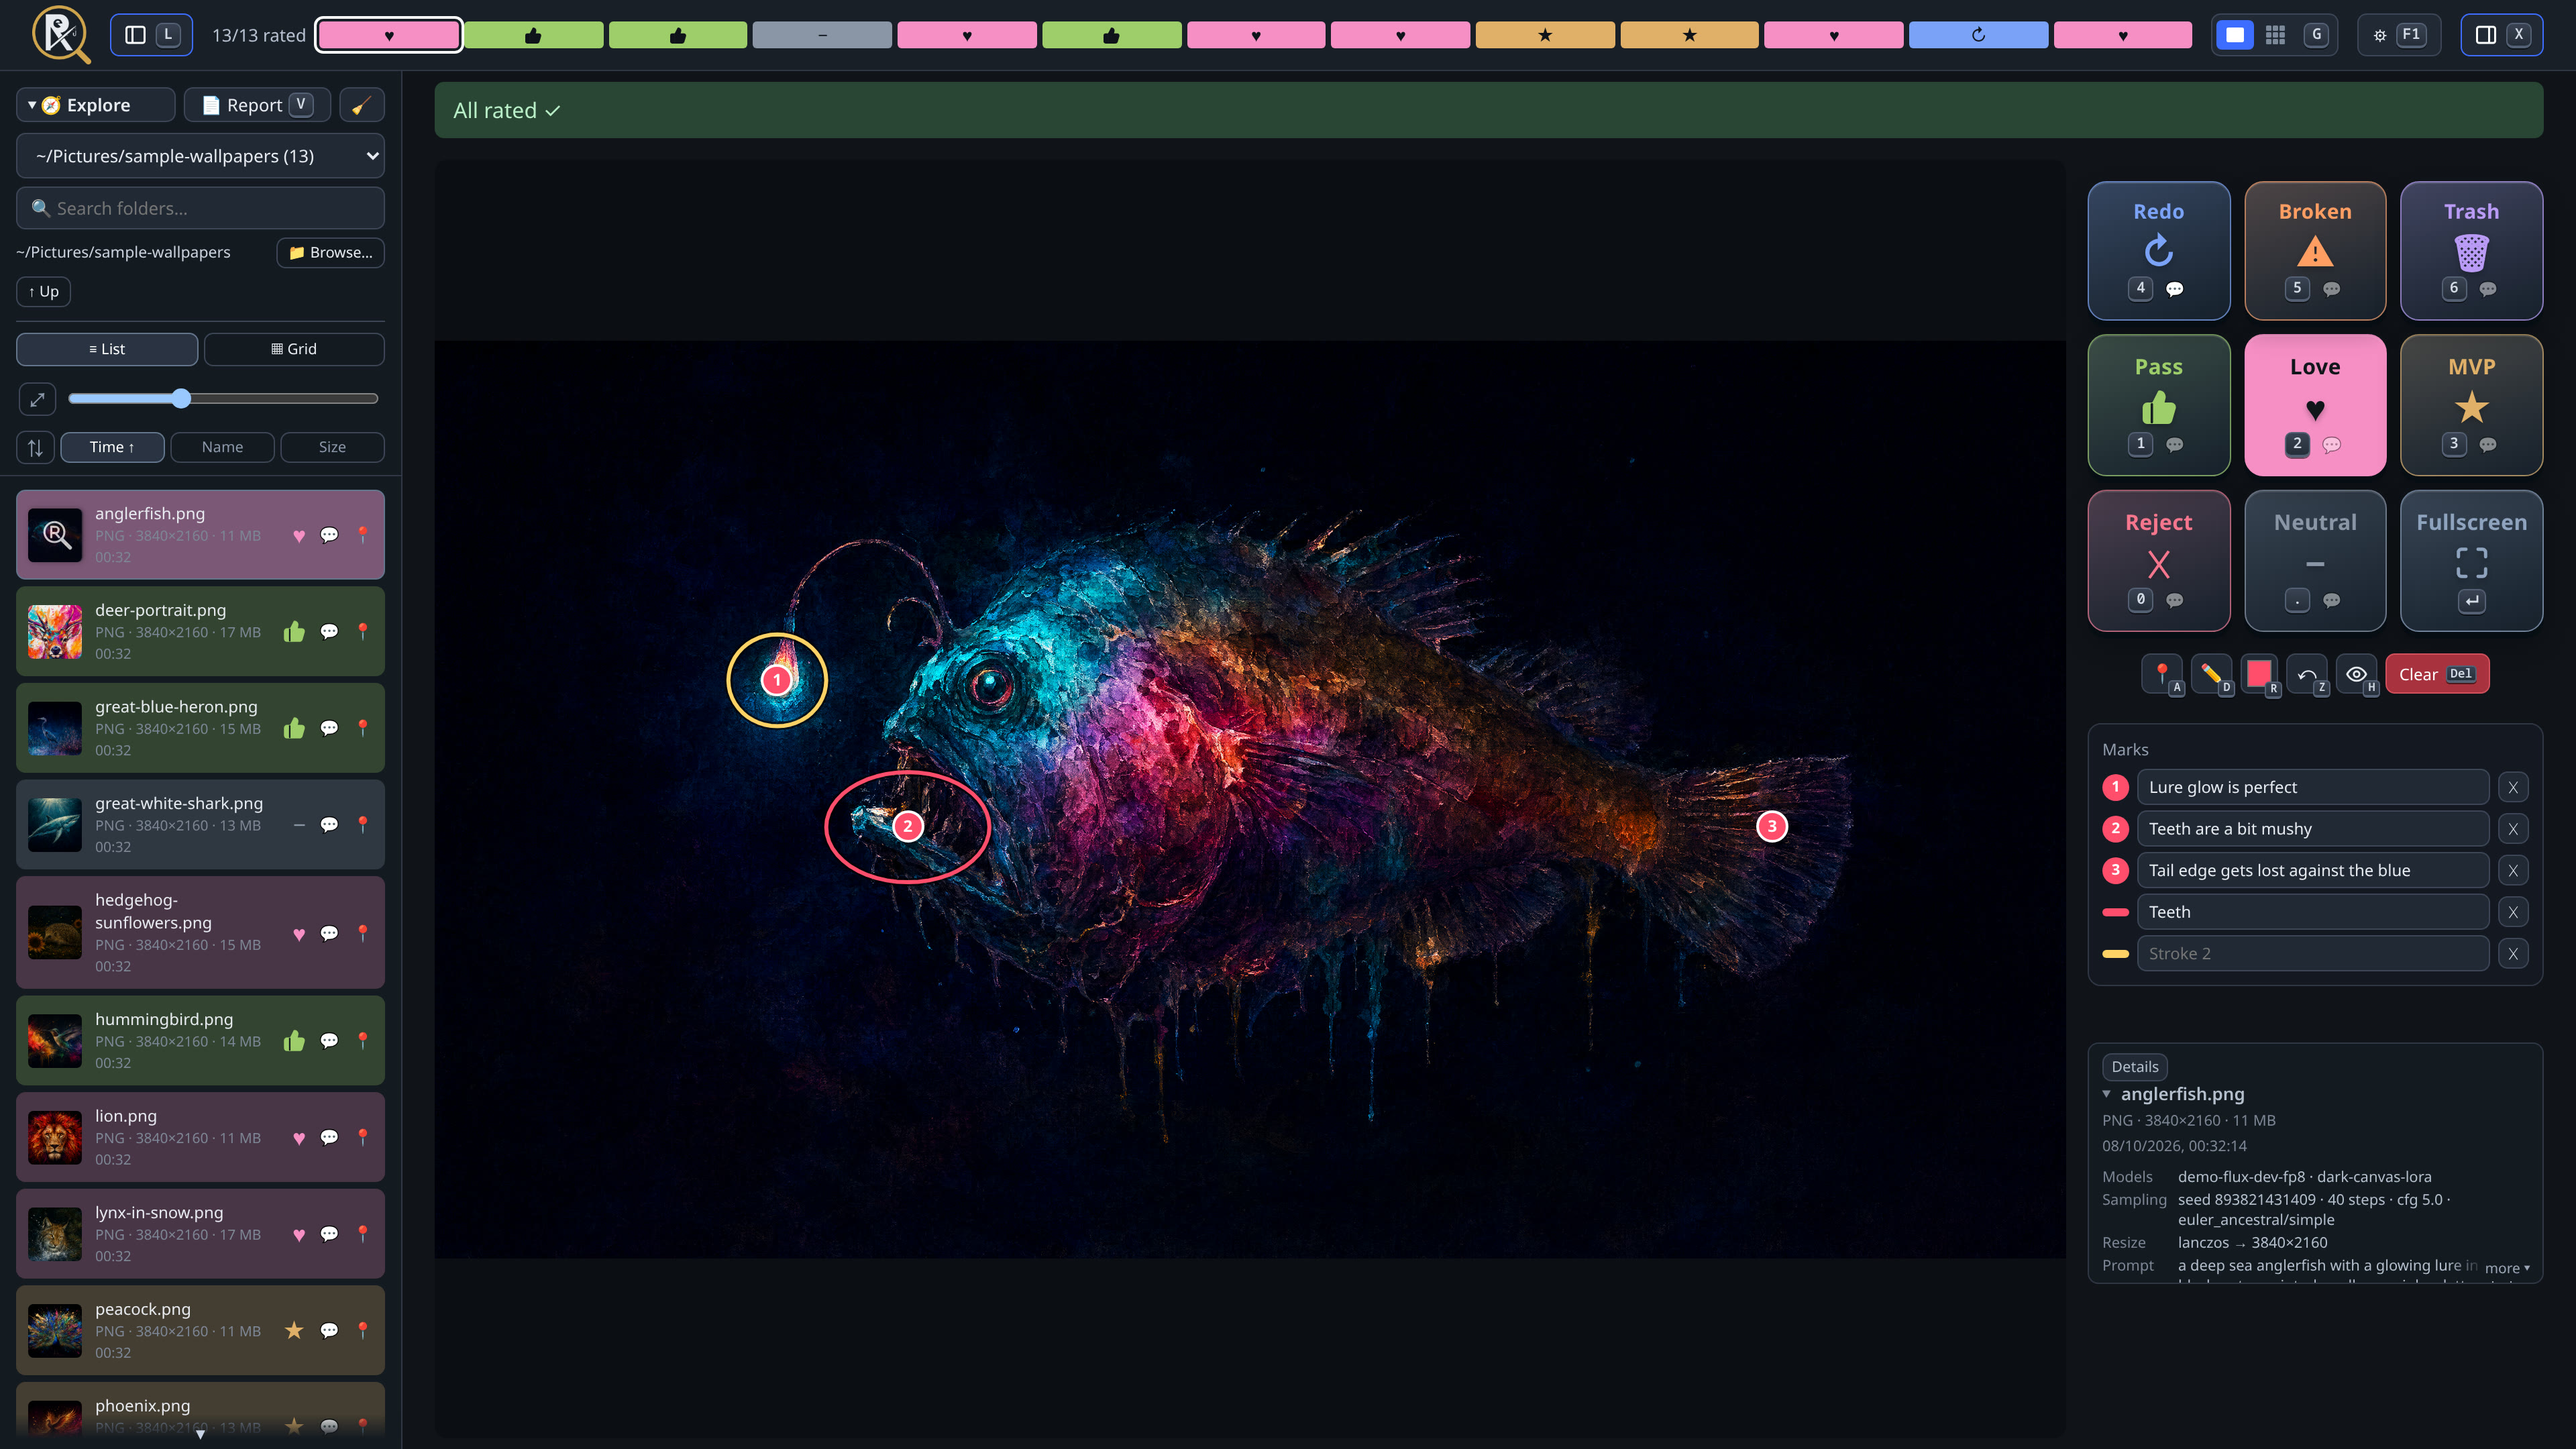
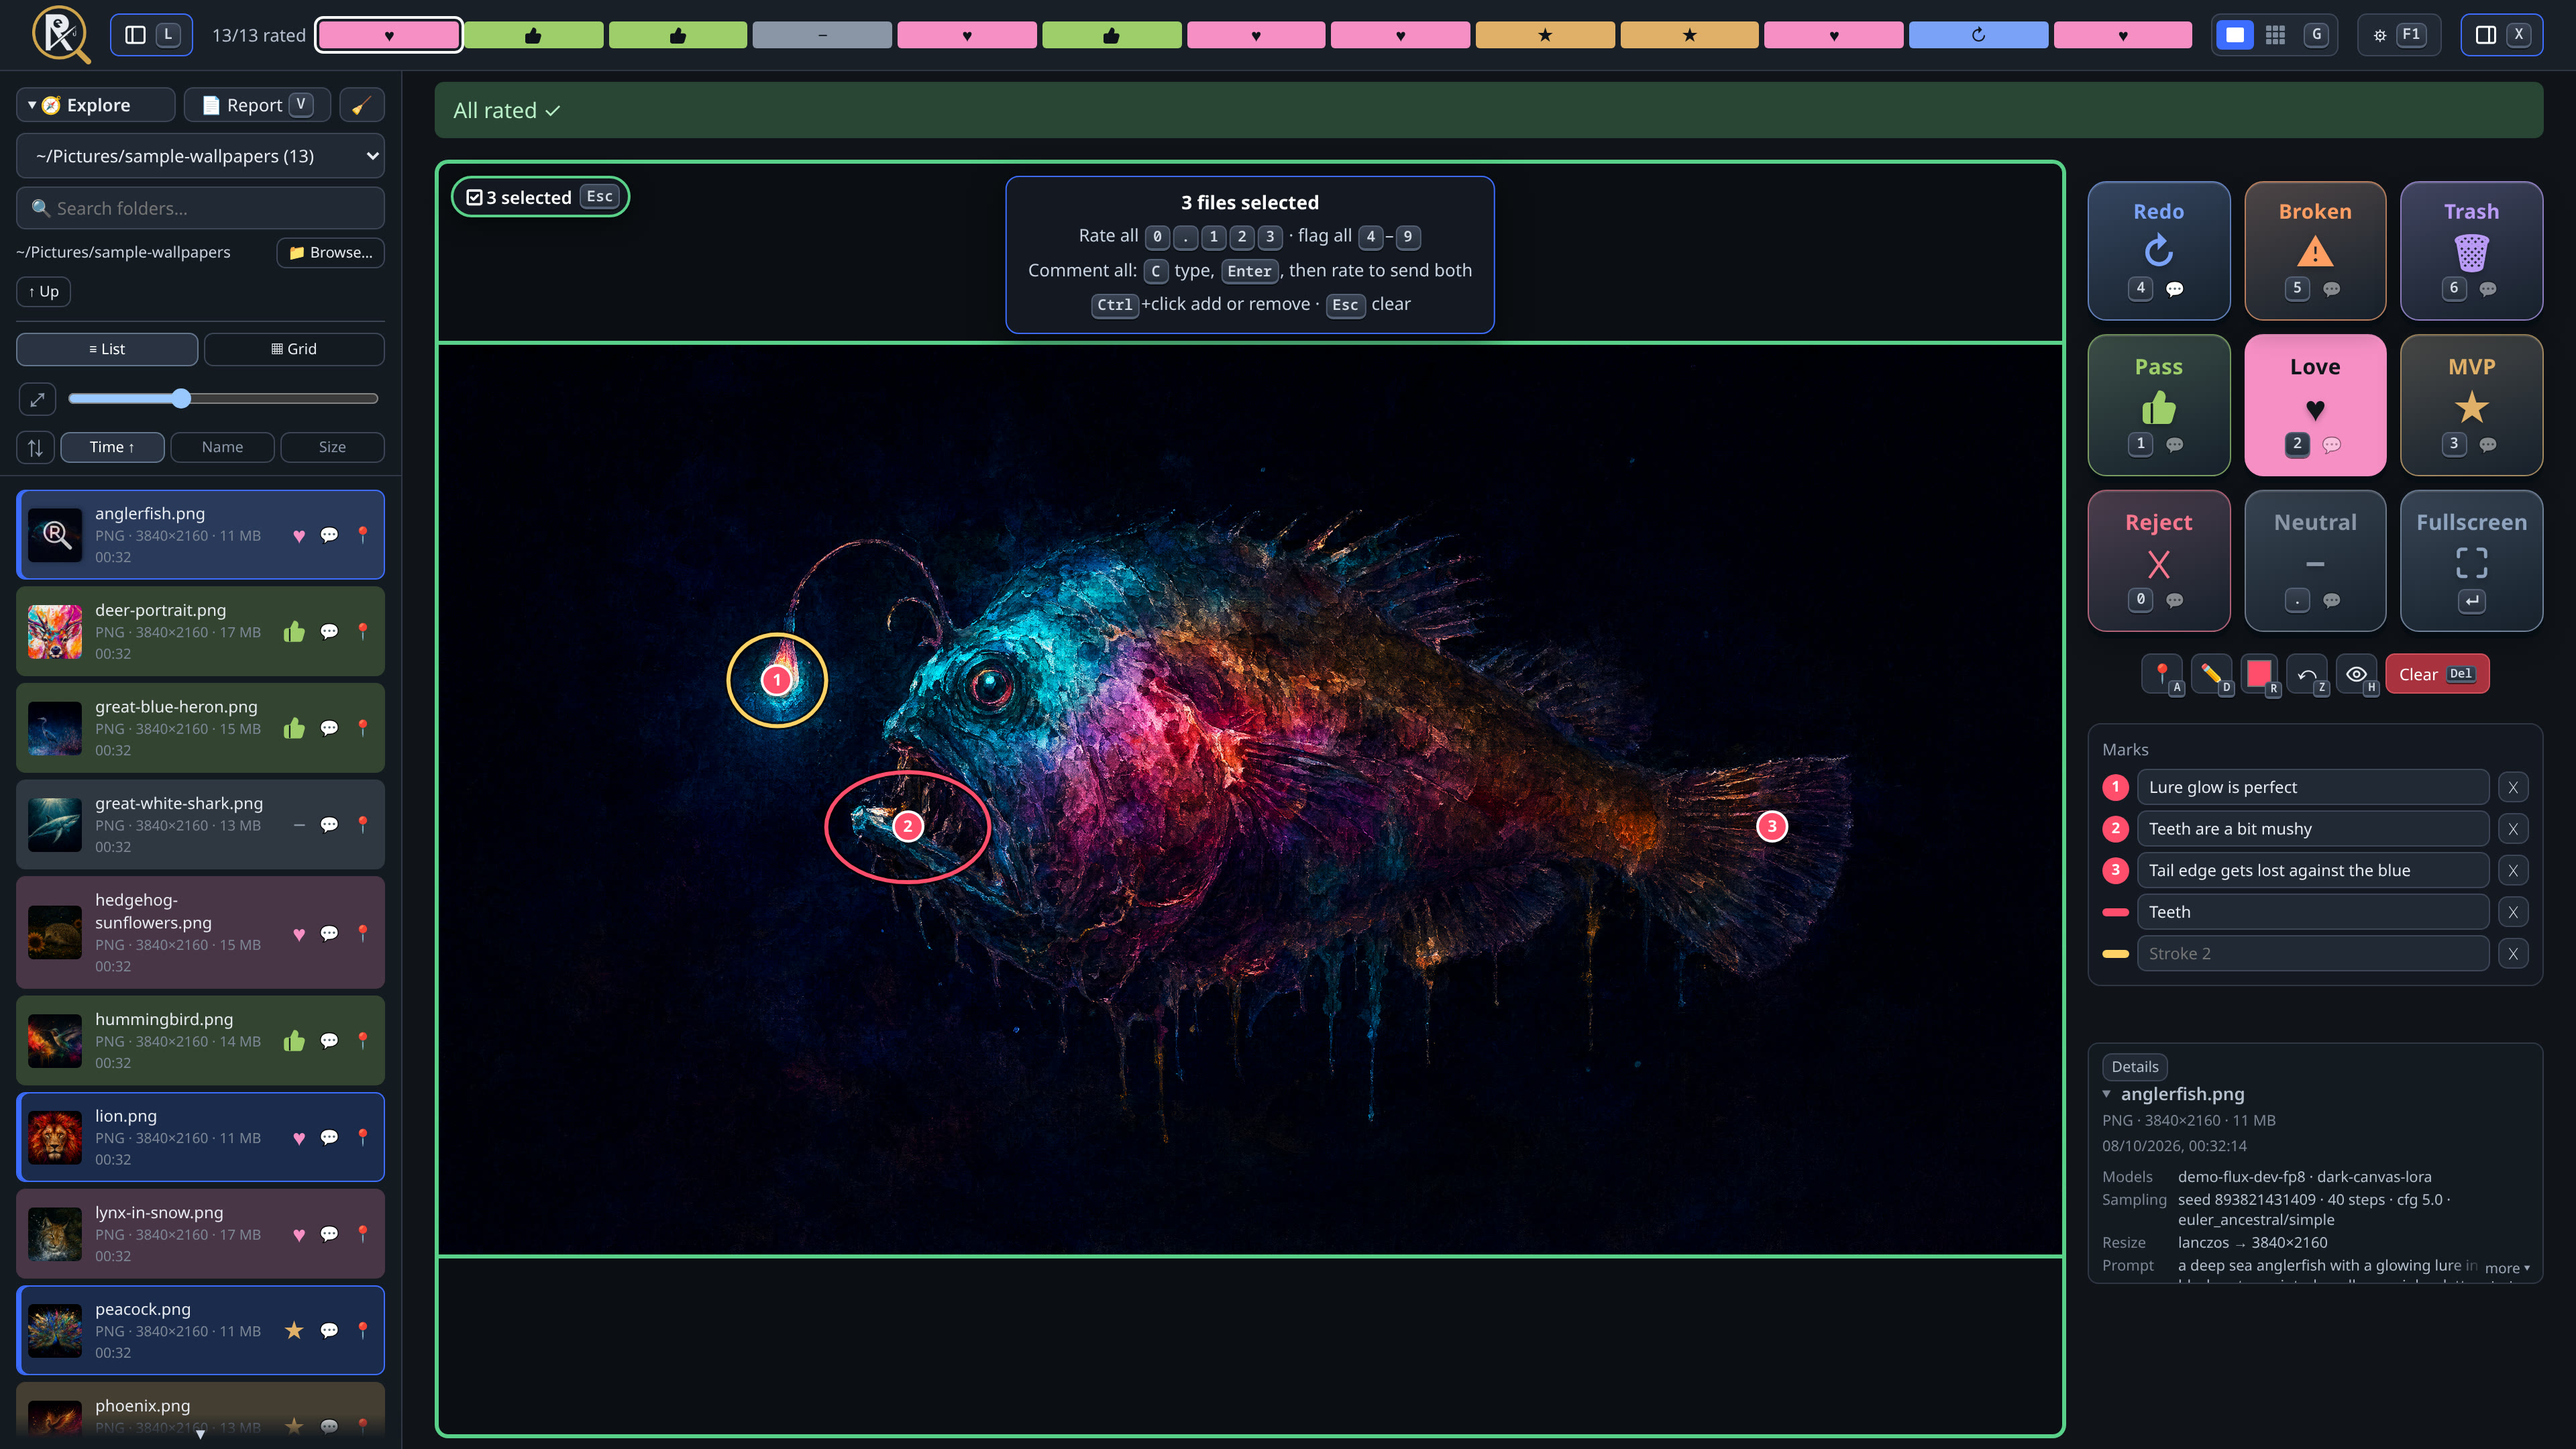
Screenshots show the pie menu and multi-select; README intro and AGENTS.md catch up

diff --git a/AGENTS.md b/AGENTS.md
@@ -14,7 +14,7 @@ RateBait is a local web app in which a person rates AI-generated images and musi
    ```
 
    Without `--root` it uses `MEDIA_RATER_ROOTS` (colon-separated), else the current directory. It listens on `127.0.0.1` only; `--host` accepts IPv4 loopback addresses only.
-3. Tell the person to open `http://127.0.0.1:8765/`, pick a folder and rate. The ⚙ menu (**F1**) lists every key.
+3. Tell the person to open `http://127.0.0.1:8765/`, pick a folder and rate (numpad keys, or hold **`** for a pie menu at the pointer). **V** shows the folder's `REVIEW.md`; the ⚙ menu (**F1**) lists every key.
 4. Optional, to keep it running: a systemd user service.
 
    ```ini
@@ -105,7 +105,7 @@ curl -s http://127.0.0.1:8765/api/review -H 'Content-Type: application/json' -d 
 - Keep it dependency-free: standard-library Python, plain HTML/CSS and one plain `app.js`, no build step.
 - Keep the AGPL-3.0-or-later header in each source file.
 - Restart `ratebait.py` after changing it; frontend changes only need a browser reload.
-- Update `README.md` when keys or behaviour change. The ⚙ Keyboard map (`keyBinds` and `kbCombos` in `app.js`) is the in-app reference.
+- Update `README.md` when keys or behaviour change; the demo GIFs and screenshots in `docs/` show the UI, so re-record them when it changes visibly. The ⚙ Keyboard map (`keyBinds` and `kbCombos` in `app.js`) is the in-app reference.
 - Run the tests in `tests/` from the repo root (`for t in assets search review writes; do python3 -m tests.test_$t; done`): asset delivery and route isolation, folder search, review saves over HTTP, and atomic writes. Exercise frontend changes in the browser too.
 - Shared review state lives in `state` at the top of `app.js`. Register DOM handlers in the `init*()` functions, not at top level. Preserve startup order and existing storage keys.
 - `index.html` keeps the whitespace between inline elements as written; don't run a formatter over it.

diff --git a/README.md b/README.md
@@ -2,9 +2,9 @@
 
 # RateBait
 
-Tiny local web app for rating AI-generated images and music fast: numpad keys to rate (Reject → MVP) and flag (Redo, Broken, Trash), a comment per file, pins and drawings over the picture, a scrollable grid view, and a `REVIEW.md` summary per folder that an LLM can read to learn your taste. Python standard library only: no install, no build.
+Tiny local web app for rating AI-generated images and music fast: numpad keys or a pie menu at the pointer to rate (Reject → MVP) and flag (Redo, Broken, Trash), a comment per file, pins and drawings over the picture, the mouse wheel to step through files, a scrollable grid view with folder tiles, multi-select, and a `REVIEW.md` summary per folder that an LLM can read to learn your taste. Python standard library only: no install, no build.
 
-Made for a 4K screen at 50 inches. ¯\\\_(ツ)\_/¯ Screenshots: [docs/screenshot.png](docs/screenshot.png) (bottom layout), full-size 4K [docs/screenshot-4k.jpg](docs/screenshot-4k.jpg) (right-sidebar layout with docked Marks).
+Made for a 4K screen at 50 inches. ¯\\\_(ツ)\_/¯ Screenshots: [docs/screenshot.png](docs/screenshot.png) (bottom layout, the ` pie menu with a slice lit), full-size 4K [docs/screenshot-4k.jpg](docs/screenshot-4k.jpg) (right-sidebar layout, three files selected, docked Marks).
 
 ![Demo: folder tiles, numpad rating with pops, the ` pie menu (click, or hold, point at a slice and let go), comment, pin, draw, wheel to the next file, double-click fullscreen with Ctrl+wheel zoom and wheel/Shift+wheel scrolling, Ctrl+click multi-select in the grid, right-sidebar layout, report view](docs/demo.gif)
 
